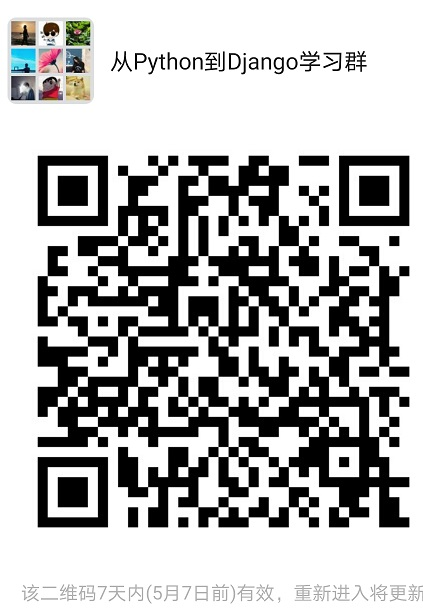
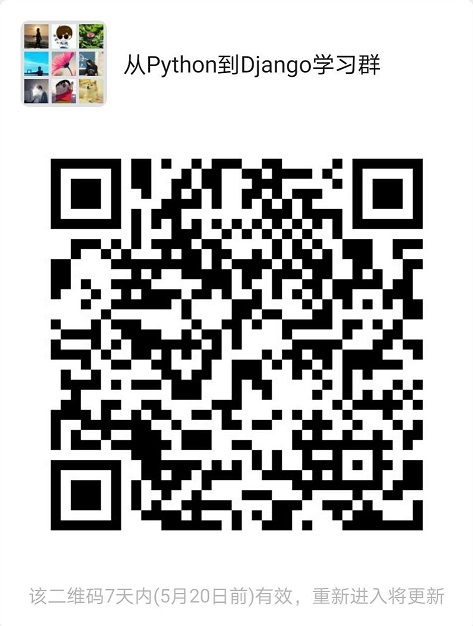
更新二维码

diff --git a/README.md b/README.md
@@ -54,7 +54,7 @@ Django是一个开放源代码的Web应用框架，由Python写成。采用了MV
 
 更多关于Python以及Django的讨论，尤其是使用Django开发微信相关应用的技术，请使用微信扫描二维码加群。
 
-![](./wechat.png)
+![](./wechat.jpg
 
 本书托管在[GitHub](https://github.com/borisliu/from-python-to-django)，
 如果有问题请在线[提交](https://github.com/borisliu/from-python-to-django/issues)。
